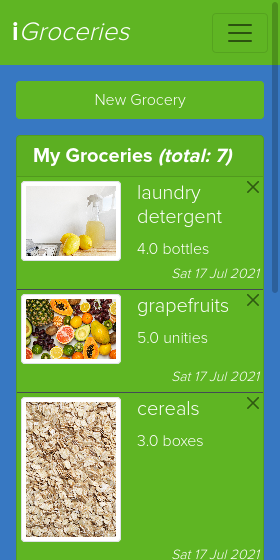
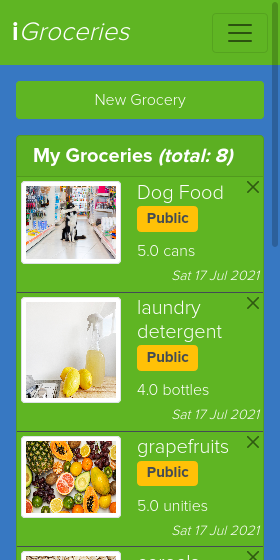
Update README

diff --git a/README.md b/README.md
@@ -7,7 +7,7 @@
 ![screenshot](./docs/screenshot1.png)
 ![screenshot](./docs/screenshot2.png)
 
-This project followed the Test Driven Development (TDD) Principle, and 93 Tests were prepared in Rails: _44 Unit Tests_ for models associations and validations and _49 Integrations Tests_ for authentication and events managment, using Capybara [capybara 3.26 (Ruby Gem)] to control Selenium on Chrome Webdriver [selenium-webdriver 3.142.7 (Ruby Gem)] and RSpec [rspec-rails 5.0 (Ruby Gem)].
+This project followed the Test Driven Development (TDD) Principle, and 100 Tests were prepared in Rails: _44 Unit Tests_ for models associations and validations and _56 Integrations Tests_ for authentication and events managment, using Capybara [capybara 3.26 (Ruby Gem)] to control Selenium on Chrome Webdriver [selenium-webdriver 3.142.7 (Ruby Gem)] and RSpec [rspec-rails 5.0 (Ruby Gem)].
 
 **Important**: As a project's requirement, the user logs in to the app, only by typing the username (a proper authenticated login is _not_ a requirement)
 
@@ -112,6 +112,7 @@ You can stop your local server pressing `<ctrl> + c` on your keyboard.
           - name:string
           - amount:decimal(5,2)
           - unit:string
+          - private:boolean
 
   ![screenshot](./docs/iGroceries-ERD.png)
 
